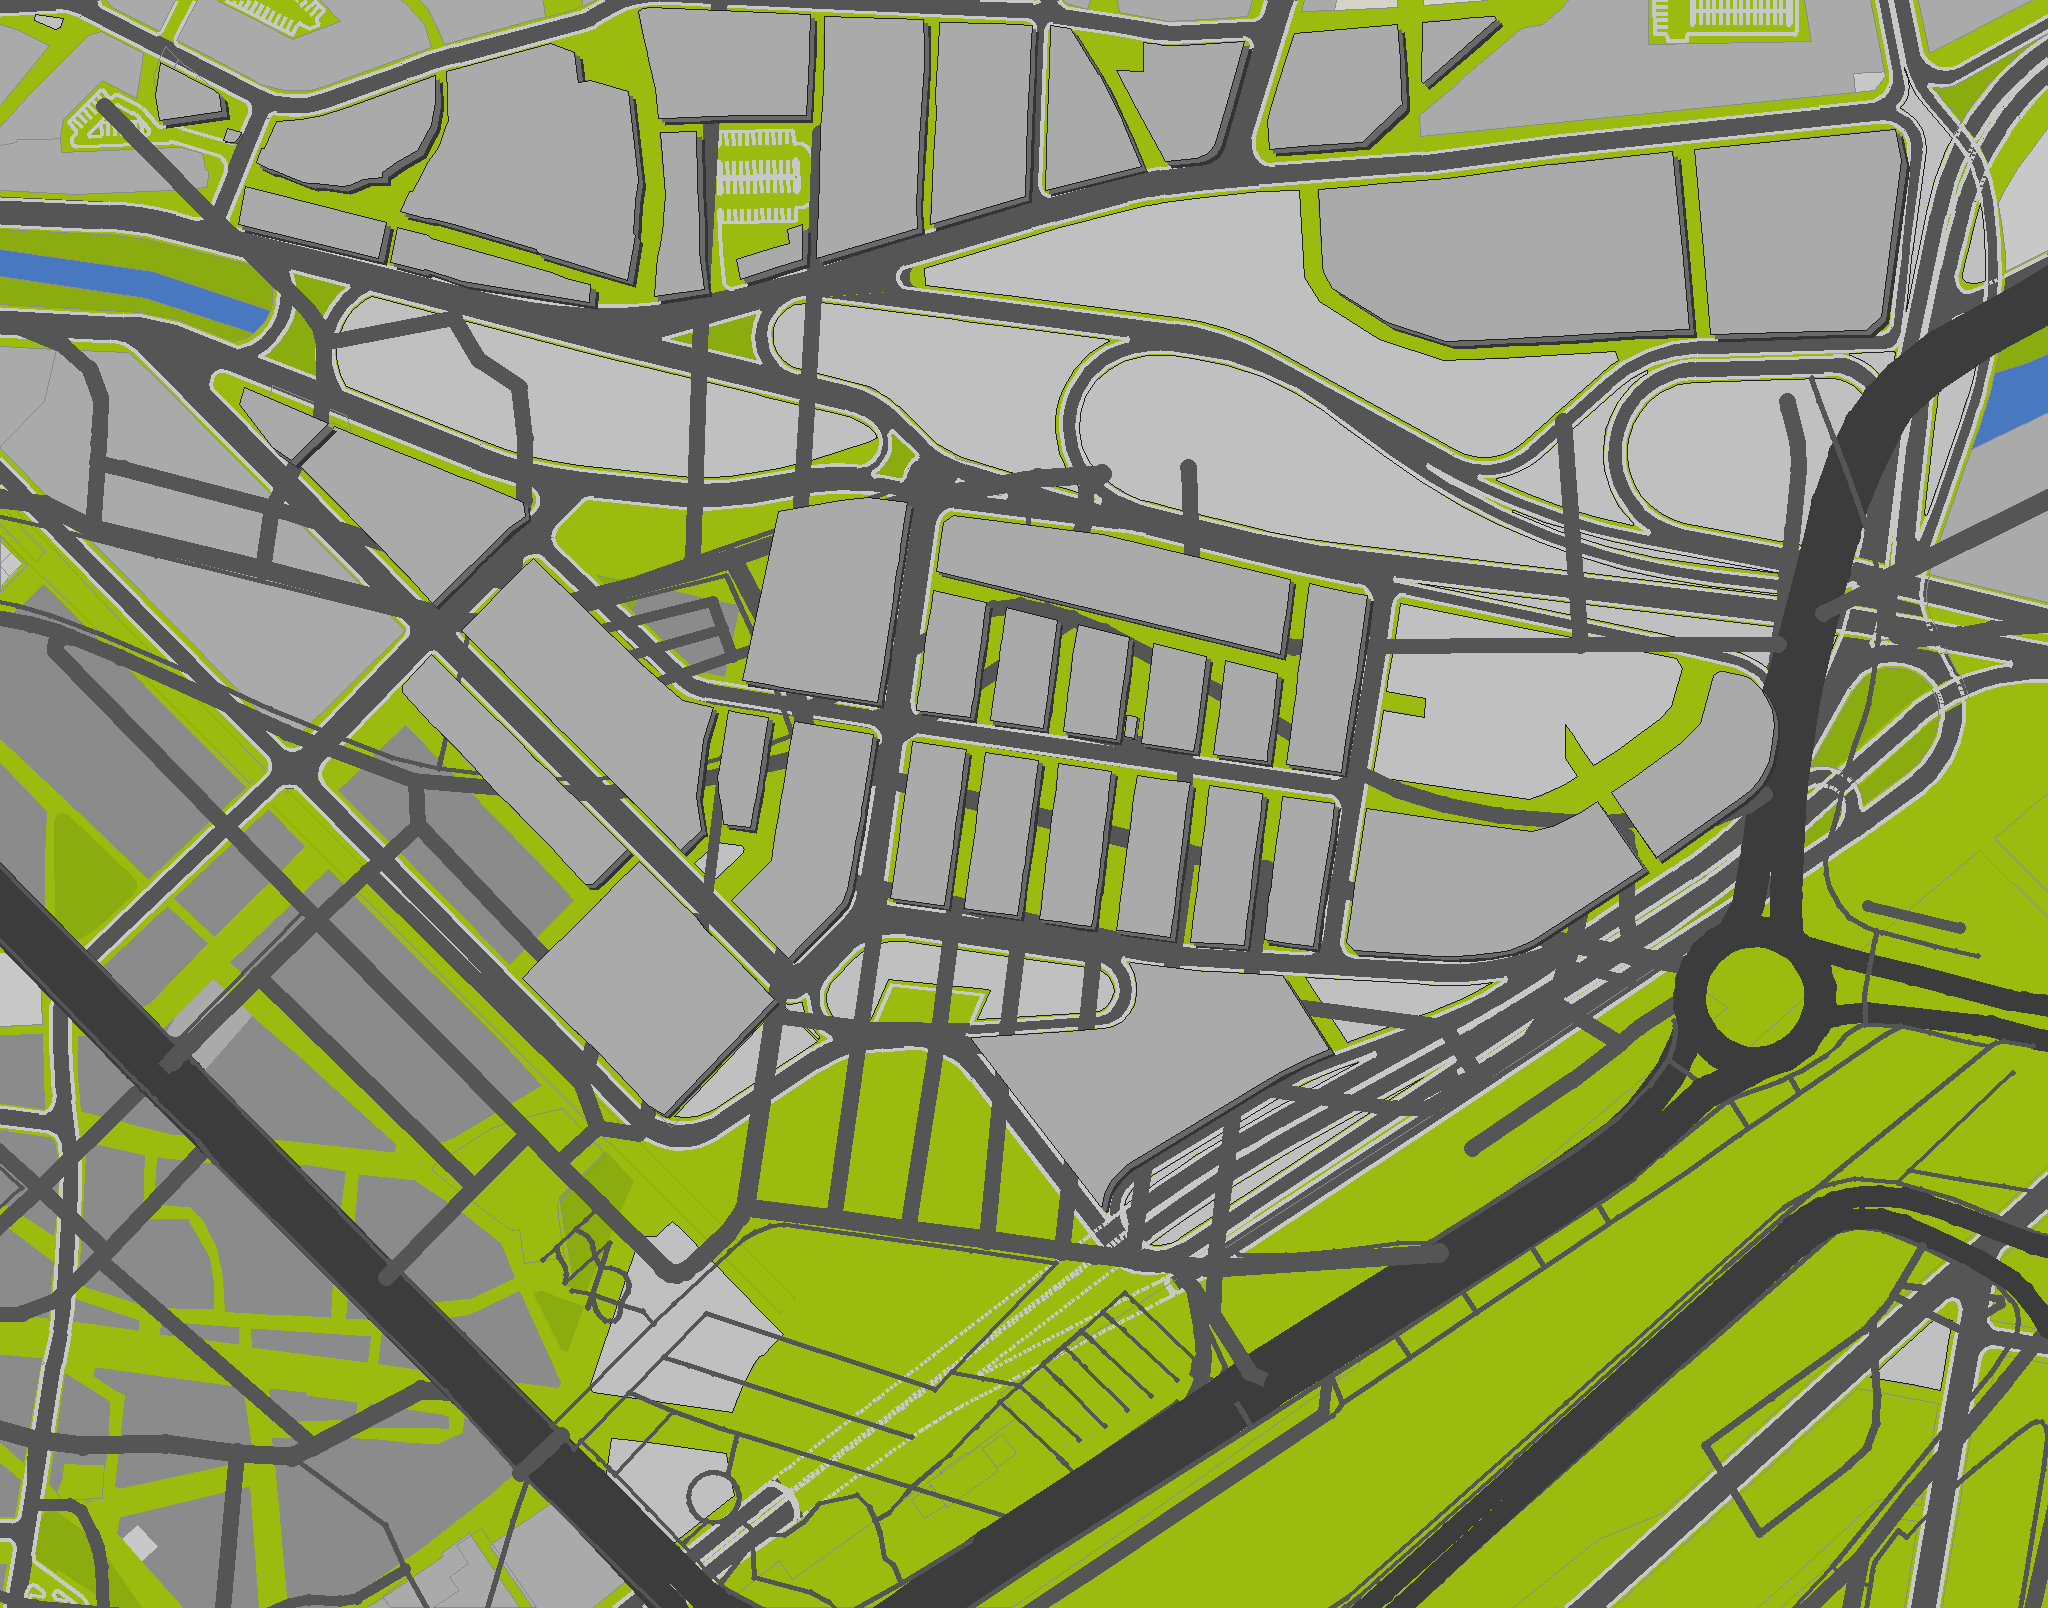
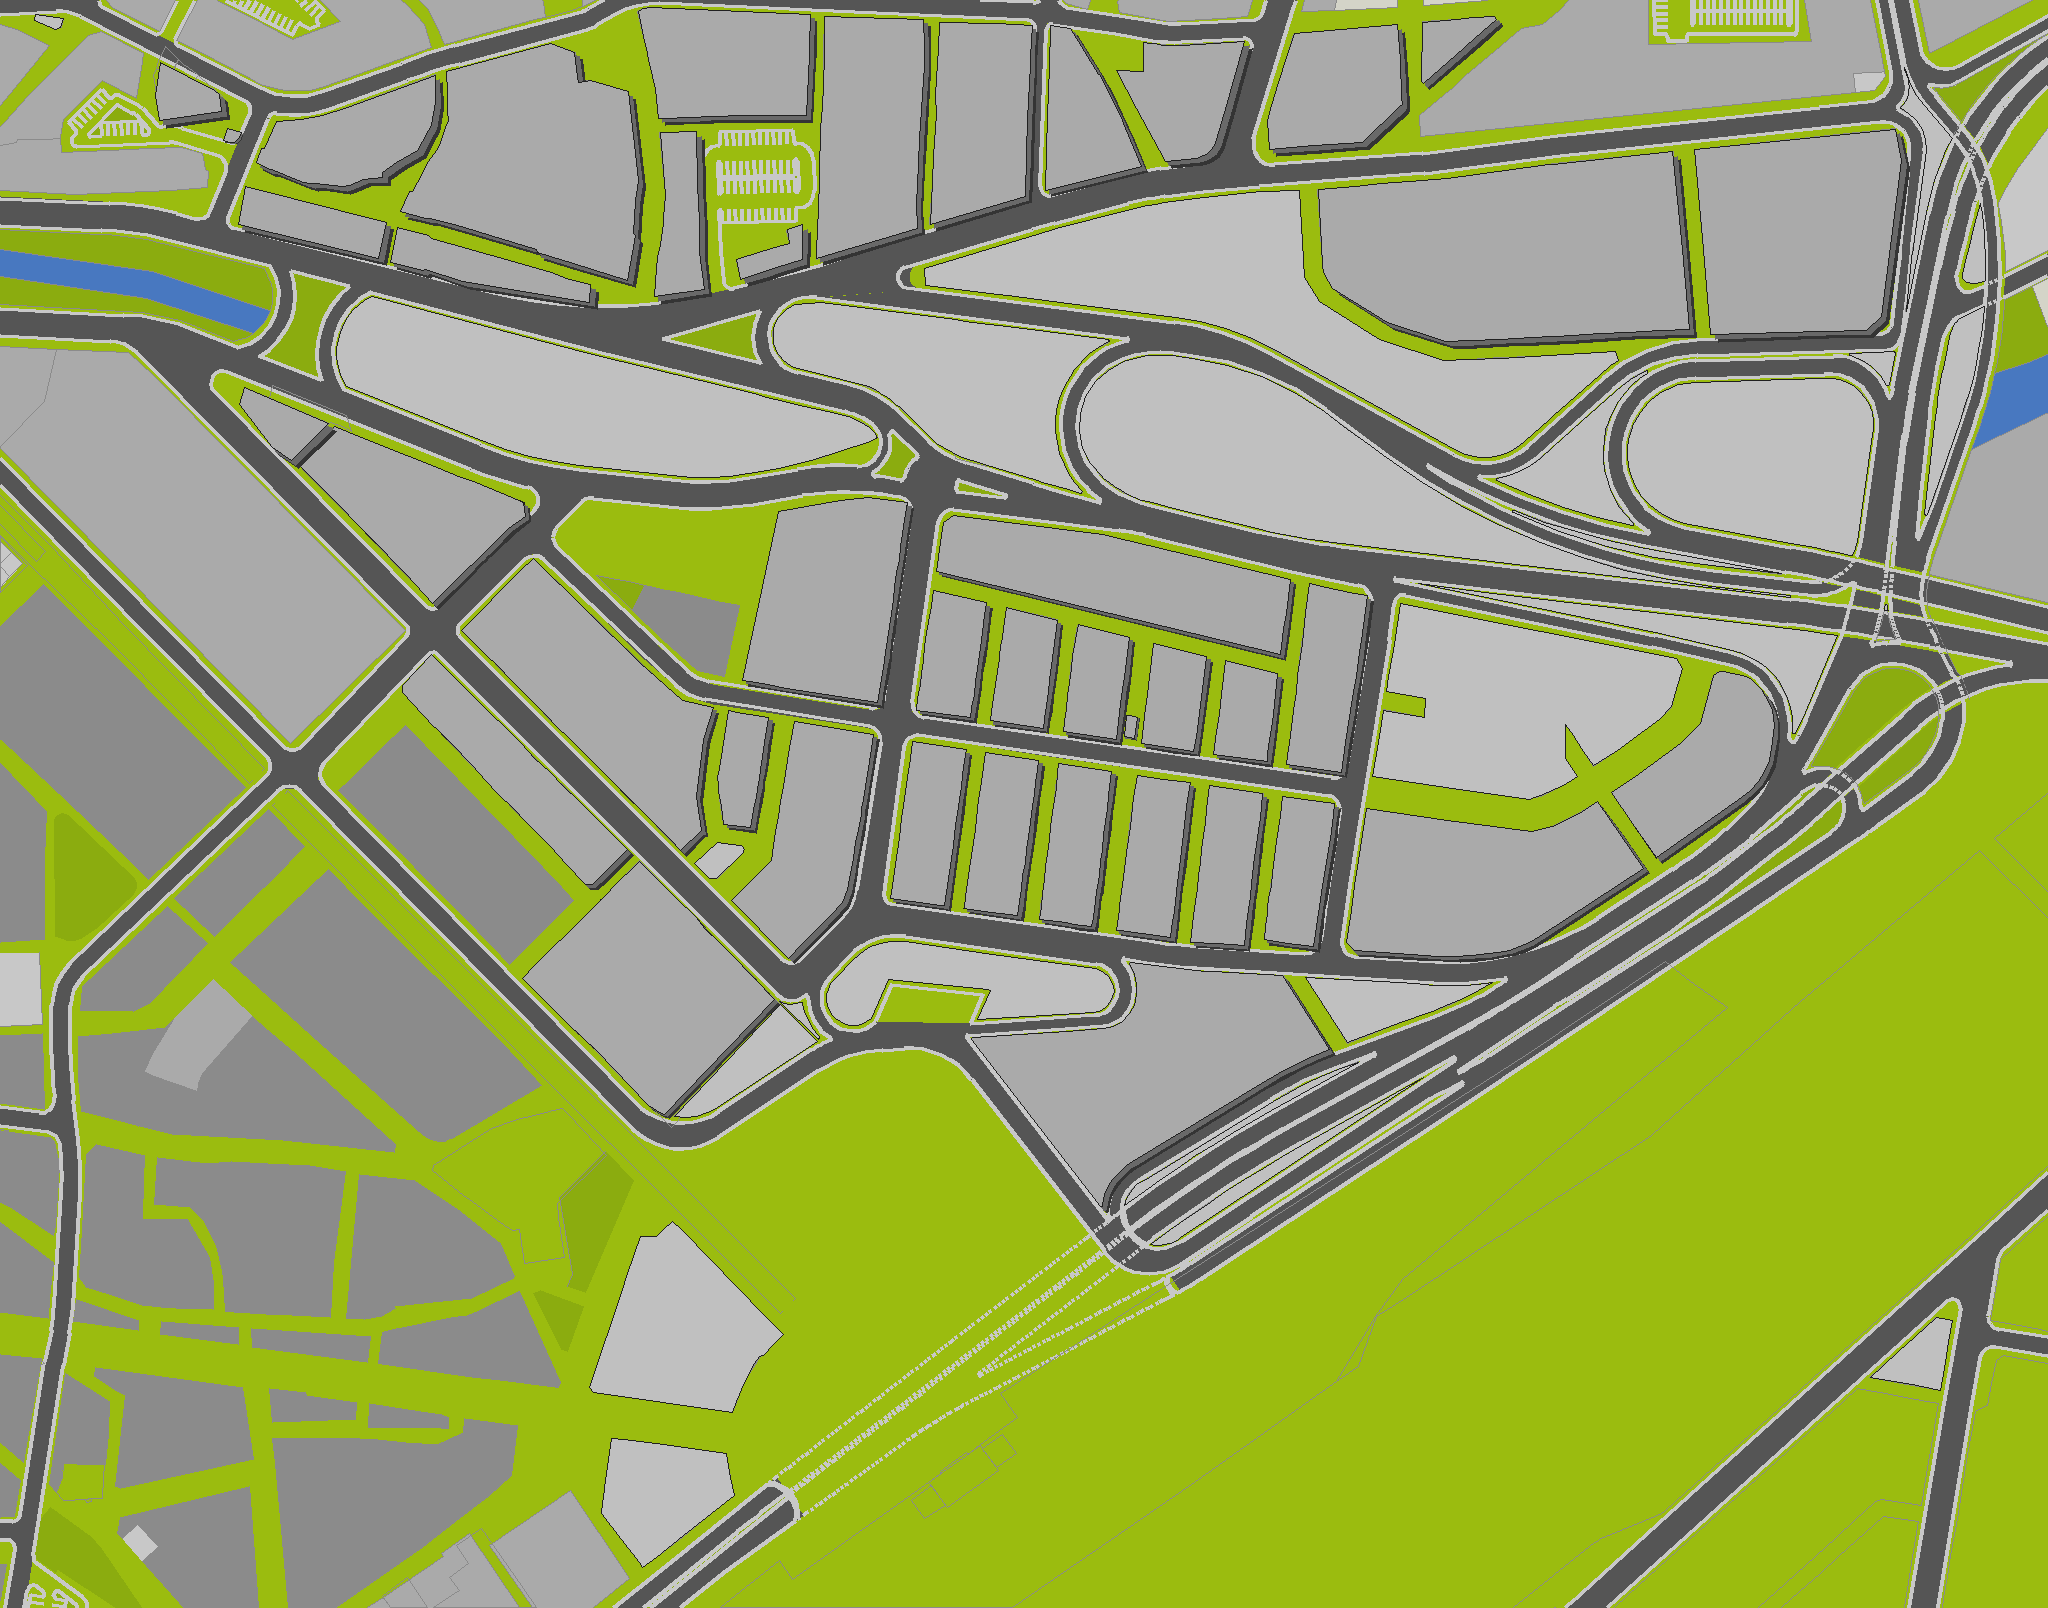
Katman ayrildi: sanat (yolsuz) + yollar (seffaf) ayri PNG'ler — sanat kalibrasyonu icin (yollar ve koordinatlar sabit)

diff --git a/mapdata/remap_gb.py b/mapdata/remap_gb.py
@@ -141,7 +141,17 @@ def main(nosm=False, cikti=None):
         c = tuple(pal[3 * i:3 * i + 3])
         yeni += list(HARITA.get(c, en_yakin(c)))
     p.putpalette(yeni)
-    out = p.convert("RGB")
+    art = p.convert("RGB")
+    # SANAT katmani (yol YOK) — kullanici kalibrasyonu bunu kaydirir
+    art.save(os.path.join(BASE, "uretim", "harita_zemin_art.png"))
+    print("OK -> uretim/harita_zemin_art.png (sanat, yolsuz)")
+    # YOL katmani — ayri seffaf PNG (sabit kalir)
+    yollar = Image.new("RGBA", art.size, (0, 0, 0, 0))
+    if not nosm:
+        ciz_yollar(yollar)
+    yollar.save(os.path.join(BASE, "uretim", "harita_zemin_yollar.png"))
+    print("OK -> uretim/harita_zemin_yollar.png (yol katmani)")
+    out = art.copy()
     if not nosm:
         ciz_yollar(out)
     hedef = cikti or DST

diff --git a/mapdata/bina_uret.py b/mapdata/bina_uret.py
@@ -13,7 +13,7 @@ from PIL import Image, ImageDraw
 
 BASE = os.path.dirname(os.path.abspath(__file__))
 URETIM = os.path.join(BASE, "uretim")
-ZEMIN = os.path.join(URETIM, "harita_zemin_gb.png")
+ZEMIN = os.path.join(URETIM, "harita_zemin_art.png")  # yolsuz sanat katmani (calibrasyon tabani)
 CIKTI_JSON = os.path.join(URETIM, "binalar.json")
 CIKTI_PNG = os.path.join(URETIM, "harita_zemin_b.png")
 PREVIEW = os.path.join(URETIM, "_preview", "binalar_preview.png")
